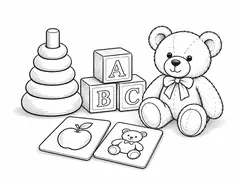
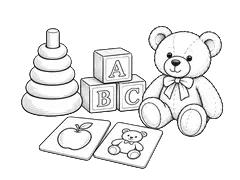
fix: refine booking success and replace child artwork

diff --git a/src/app/public-mobile-fixes.css b/src/app/public-mobile-fixes.css
@@ -1,4 +1,47 @@
-/* Mobile-only visual corrections. Desktop/tablet composition remains unchanged. */
+/* Targeted public visual corrections. */
+
+.inner-page .booking-flow.booking-success {
+  min-height: 0;
+  align-content: start;
+  padding-block: clamp(42px, 5vw, 64px);
+}
+
+.inner-page .booking-success .section-kicker {
+  margin-bottom: 12px;
+}
+
+.inner-page .booking-success h1 {
+  max-width: 820px;
+  font-size: clamp(3.1rem, 5.4vw, 4.7rem);
+  line-height: 0.96;
+  letter-spacing: -0.055em;
+}
+
+.inner-page .booking-success > p {
+  margin-top: 18px;
+  font-size: 0.94rem;
+  line-height: 1.65;
+}
+
+.inner-page .booking-success .booking-reference {
+  display: grid;
+  width: min(100%, 720px);
+  gap: 5px;
+  margin-top: 24px;
+  padding: 15px 18px;
+  border-radius: 16px;
+}
+
+.inner-page .booking-success .booking-reference strong {
+  font-size: 1.18rem;
+  overflow-wrap: anywhere;
+}
+
+.inner-page .booking-success .booking-privacy-note {
+  margin-top: 14px;
+  font-size: 0.72rem;
+  line-height: 1.5;
+}
 
 @media (max-width: 700px) {
   .public-sketch .home-about-name-note {
@@ -15,25 +58,7 @@
     left: auto;
   }
 
-  .inner-page
-    .service-page-grid-visual
-    .service-visual-card:first-child
-    .service-visual-image {
-    background: none;
-  }
-
-  .inner-page
-    .service-page-grid-visual
-    .service-visual-card:first-child
-    .service-visual-image
-    .service-visual-art {
-    opacity: 0.96;
-    mix-blend-mode: multiply;
-  }
-
   .inner-page .booking-flow.booking-success {
-    min-height: 0;
-    align-content: start;
     padding: 32px 22px 28px;
     border-radius: 18px;
   }
@@ -52,11 +77,9 @@
   .inner-page .booking-success > p {
     margin-top: 15px;
     font-size: 0.86rem;
-    line-height: 1.65;
   }
 
   .inner-page .booking-success .booking-reference {
-    display: grid;
     width: 100%;
     gap: 4px;
     margin-top: 20px;
@@ -71,7 +94,6 @@
   .inner-page .booking-success .booking-reference strong {
     font-size: 1.04rem;
     letter-spacing: 0.025em;
-    overflow-wrap: anywhere;
   }
 
   .inner-page .booking-success .booking-privacy-note {
